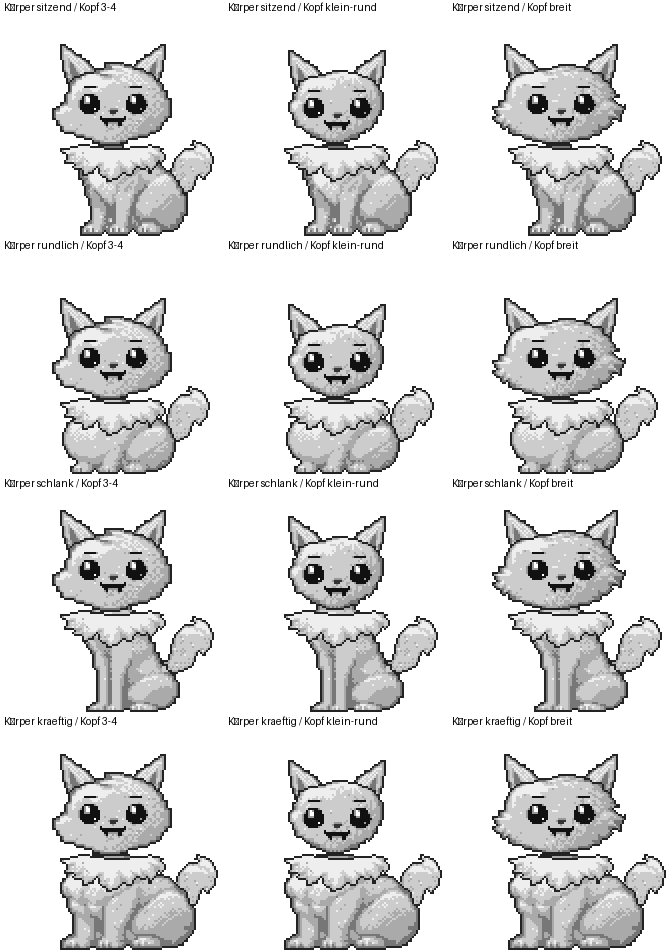
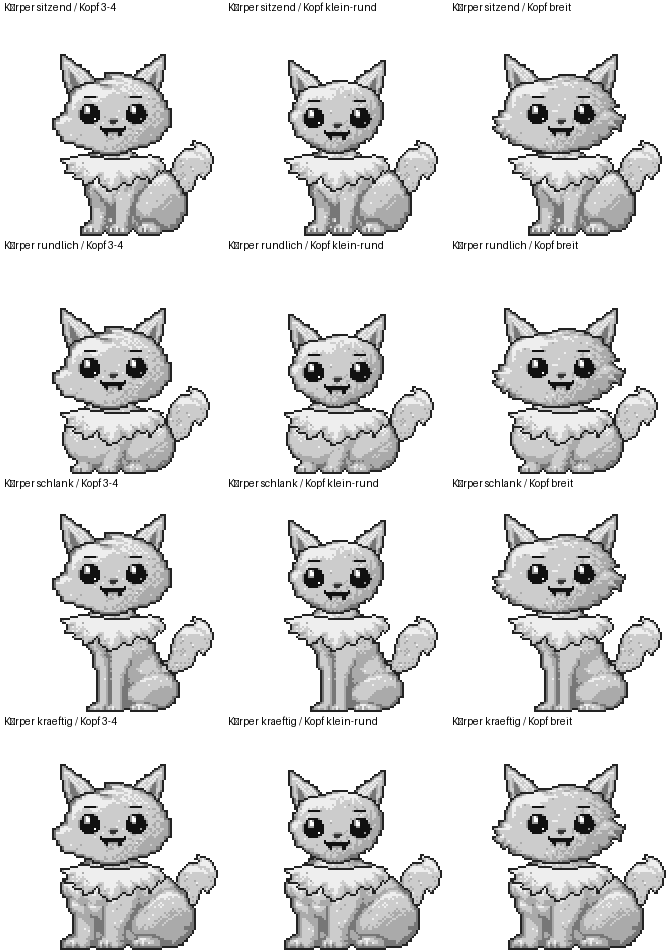
Bausatz: Kopf sitzt tiefer im Koerperhals, kein schwebender Kopf mehr
Claude-Session: https://claude.ai/code/session_01X43J6dzQtUUHUsjwp3UbdM

diff --git a/entwuerfe/bausatz-test/formen.py b/entwuerfe/bausatz-test/formen.py
@@ -10,6 +10,7 @@ from basis3 import Leinwand, rollen, muster_maske, W, H, HIER, TEILE, Z
 from ki_teile import lade_teil
 
 BODEN = 110
+KOPF_UEBER_STANDARD = -3     # Kopf-Hals liegt so viele Pixel ÜBER dem Körper-Hals (negativ = darunter)
 KRUSE_TIEFER_STANDARD = 3   # Halskrause sitzt so viele Pixel unter dem Kopf-Hals: der Kopf sitzt am Hals, nicht auf der Krause
 PANZER_WINKEL = 30       # Grad, nach rechts unten gekippt
 PANZER_VERSATZ = (-14, 8)  # Verschiebung gegenüber dem Rückenansatz
@@ -29,8 +30,7 @@ def baue_form(koerper='sitzend', kopf='3-4', kruse=2, ohren='spitz', schwanz='bu
     kf, hf = L.KOERPER_FORMEN[koerper], L.KOPF_FORMEN[kopf]
     khx, khy = hf['hals']
     if kopf_ueber is None:
-        kopf_ueber = {'schlank': 1}.get(koerper, 4)   # hohe Körper: Kopf tiefer, damit lange Ohren nicht abgeschnitten werden
-        kopf_ueber -= KOPF_TIEFER.get(kopf, 0) + 2      # Kopf sitzt 2 Pixel tiefer am Hals (27.11.)
+        kopf_ueber = KOPF_UEBER_STANDARD - KOPF_TIEFER.get(kopf, 0)   # negativ: Kopf sitzt im Körperhals, Kinn berührt die Krause
     gw, gh = kf['groesse']; hx, hy = kf['hals']
     zx, zy = 56, BODEN - (gh - 1) + hy                  # Körper-Hals auf der Leinwand
     kx, ky = 56, zy - kopf_ueber                         # Kopf-Hals

diff --git a/entwuerfe/bausatz-test/README.md b/entwuerfe/bausatz-test/README.md
@@ -44,4 +44,4 @@ Körper rundlich, schlank, kräftig und Köpfe klein-rund und breit (der spitze 
 Teile in `ki/teile/`: `merkmal-maehne`, `merkmal-stacheln`, `merkmal-panzer`, `merkmal-fluegel-fee`, `merkmal-fluegel-drache`, `ohr-antenne`. `formen.py` setzt sie über den Parameter `merkmale` ein (Mähne hinter dem Kopf, Stacheln als Band entlang Kopf und Rücken, Panzer wie ein Rucksack, Flügel hinter dem Körper, Antennen als Ohren (der Rüssel wurde am 27.11. verworfen)). Prüfbogen: `pruefbogen-artmerkmale.png` (Leo, Rolli, Tetro, Lumi, Blubber, Bit, Blip, Ella). Nur sitzend.
 
 ## Halskrause und Panzer angepasst (27. November 2026)
-Die Halskrause liegt jetzt **hinter dem Kopf** und 3 Pixel tiefer (`KRUSE_TIEFER_STANDARD` in `formen.py`); der Kopf sitzt 2 Pixel tiefer am Körperhals. So sieht man einen kleinen Hals über der Krause und der Kopf sitzt nicht mehr auf ihr. Der Panzer ist um 30° nach rechts unten gekippt (`PANZER_WINKEL`, `PANZER_VERSATZ`). Der Rüssel wurde entfernt.
+Die Halskrause liegt jetzt **hinter dem Kopf** und 3 Pixel tiefer (`KRUSE_TIEFER_STANDARD` in `formen.py`); der Kopf sitzt 3 Pixel **unter** dem Körperhals (`KOPF_UEBER_STANDARD = -3`), das Kinn berührt die Krause. Ein sichtbarer Halsstumpf oder ein schwebender Kopf ist damit weg. Der Panzer ist um 30° nach rechts unten gekippt (`PANZER_WINKEL`, `PANZER_VERSATZ`). Der Rüssel wurde entfernt.
